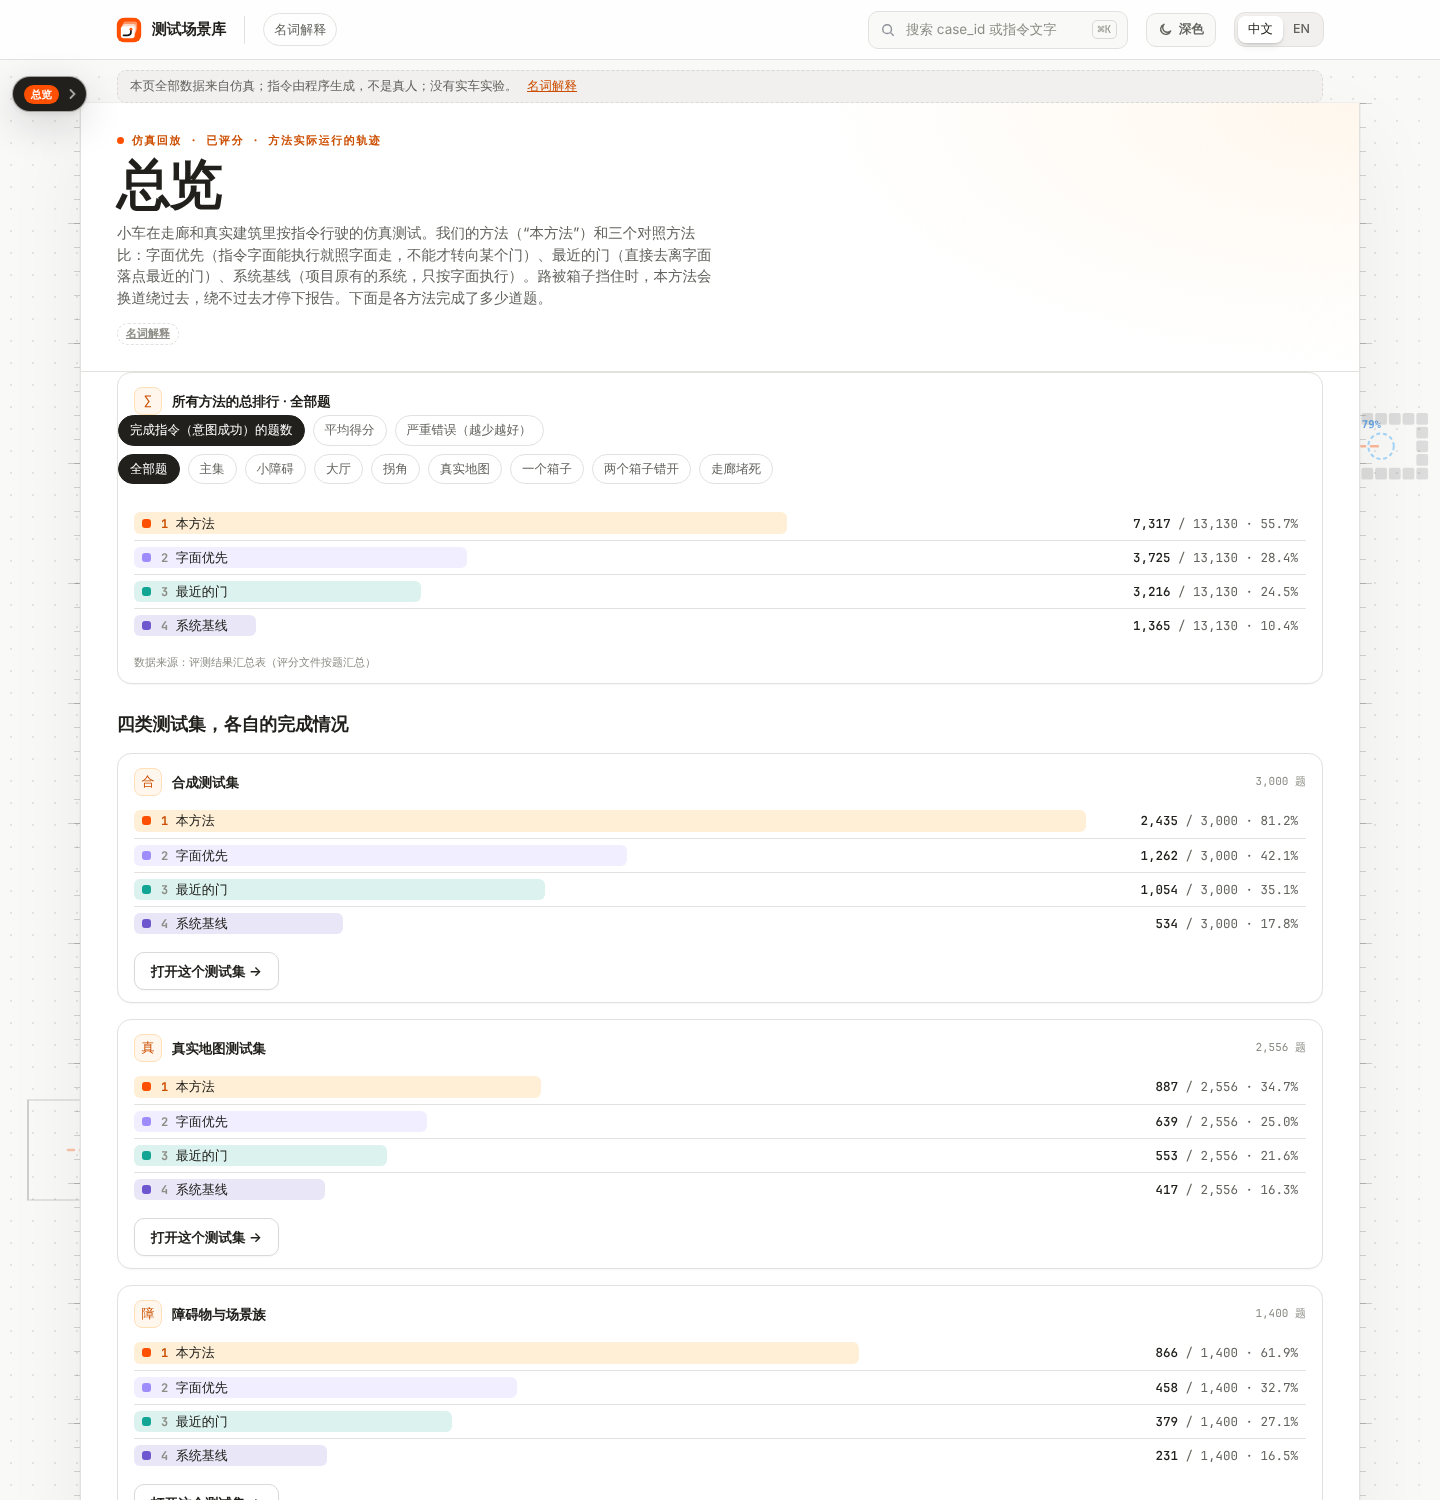
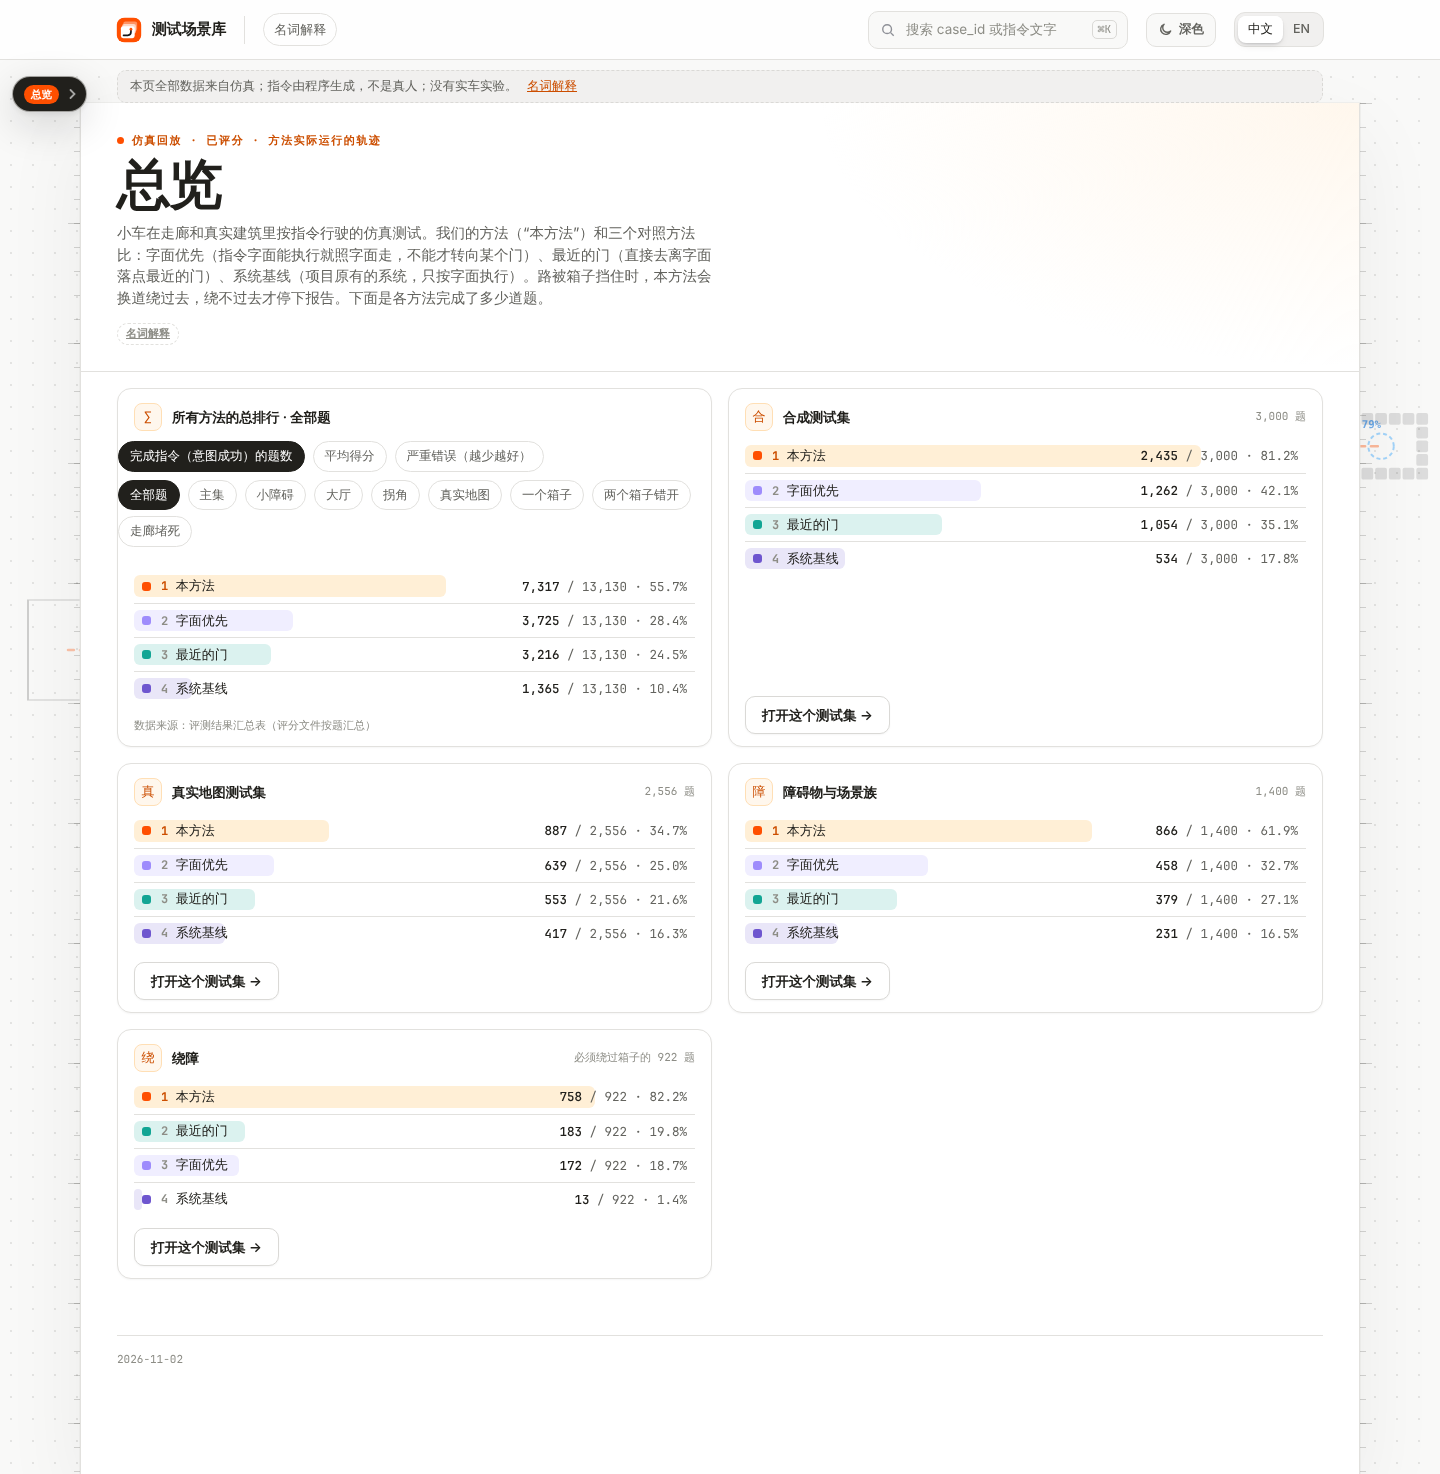
Update site: two-column layout

diff --git a/assets/app.js b/assets/app.js
@@ -312,7 +312,7 @@ function rail(route) {
   <a class="ri ${route === 'overview' ? 'on' : ''}" href="#overview"><span class="ico">◔</span>${t('overview')}</a>
   <h6>${t('sets')}</h6>
   ${sets.map(s => `<button class="ri ${route === 'list' && state.set === s.id ? 'on' : ''}" data-set="${s.id}"><span class="ico">${s.ico}</span><span>${esc(s.label)}<span class="sub">${esc(s.sub)}</span></span><span class="n">${fmt(s.n)}</span></button>`).join('')}
-  <div class="foot">${esc(META.built_utc.slice(0, 10))}</div>`;
+  <div class="foot">${esc(((window.SL_S11 || META).built_utc || '').slice(0, 10))}</div>`;
   r.querySelectorAll('[data-set]').forEach(b => b.onclick = () => { state.set = b.dataset.set; store.set('set', state.set); state.sub = 'all'; state.kind = 'all'; state.shown = 48; if (!armsOf(state.set).includes(state.arm)) state.arm = 'method'; closeNav(); if (location.hash.replace('#', '') !== 'list') location.hash = 'list'; else render(); });
   r.querySelectorAll('a').forEach(a => a.addEventListener('click', closeNav));
 }
@@ -367,7 +367,7 @@ function render() { cleanup.forEach(f => f()); cleanup = []; const r = route(); 
     d.onwheel = ev => { if (Math.abs(ev.deltaX) > Math.abs(ev.deltaY) && Math.abs(ev.deltaX) > 6) { ev.preventDefault(); const now = Date.now(); if (now - (dockState.w || 0) < 400) return; dockState.w = now; dock(ev.deltaX < 0, true); } };
     d.classList.toggle('fold', dockState.mini); }
   { let n = $('#simnote'); if (!n) { n = document.createElement('p'); n.id = 'simnote'; n.className = 'simnote'; $('#page').before(n); } n.innerHTML = `${L === 'zh' ? '本页全部数据来自仿真；指令由程序生成，不是真人；没有实车实验。' : 'All data on this page come from simulation; commands are program-generated, not spoken by people; there is no physical-robot experiment.'} <a href="#glossary">${L === 'zh' ? '名词解释' : 'Glossary'}</a>`; }
-  if (NAV !== 'rail') $('#page').insertAdjacentHTML('beforeend', `<footer class="pfoot"><span>${esc(META.built_utc.slice(0, 10))}</span></footer>`); }
+  if (NAV !== 'rail') $('#page').insertAdjacentHTML('beforeend', `<footer class="pfoot"><span>${esc(((window.SL_S11 || META).built_utc || '').slice(0, 10))}</span></footer>`); }
 window.addEventListener('hashchange', () => { render(); window.scrollTo(0, 0); });
 
 

diff --git a/assets/s11.js b/assets/s11.js
@@ -307,7 +307,7 @@ function homeHTML() {
     const n = id === 'Y4' ? 922 : rows[0].den;
     return `<article class="card metric homecat" data-set="${id}"><div class="card-h"><span class="tile">${{Y1: '合', Y2: '真', Y3: '障', Y4: '绕'}[id]}</span><h3>${esc(T(SET_TITLE[id][0], SET_TITLE[id][1]))}</h3><span class="more">${id === 'Y4' ? T('必须绕过箱子的 922 题', 'the 922 cases that require a detour') : fmt(n) + T(' 题', ' cases')}</span></div>${rowsHTML(rows, 'comp')}<div class="foot"><a class="btn" href="#list" data-open="${id}">${T('打开这个测试集', 'Open this test set')} →</a></div></article>`;
   }).join('');
-  return `<div id="homerank"></div><h3 class="s10h3">${T('四类测试集，各自的完成情况', 'The four test sets: how many cases each method completed')}</h3><div class="agrid s10grid s11grid" id="homecats">${cats}</div>`;
+  return `<div class="agrid s10grid s11grid" id="homecats"><div id="homerank"></div>${cats}</div>`;
 }
 function mountHome(root) {
   mountBars(root.querySelector('#homerank'), RK_SCOPES.map(x => [x[0], x[1], x[2]]), T('所有方法的总排行', 'Overall ranking of the methods'));

diff --git a/assets/app.css b/assets/app.css
@@ -783,3 +783,10 @@ table.rkt td.c b{display:block}
 #homecats{grid-template-columns:repeat(2,minmax(0,1fr))}
 @media (max-width:860px){#homecats{grid-template-columns:minmax(0,1fr)}}
 .rkbars .card-h{margin-bottom:10px}
+#homecats>*{min-width:0}#homecats .card{height:100%}
+.s11grid{grid-template-columns:repeat(2,minmax(0,1fr))}
+.s11grid .s10b .tbl{overflow-x:auto}
+.s11grid table.s10t{font-size:12px}.s11grid table.s10t td.nm{min-width:110px}
+@media (max-width:860px){.s11grid{grid-template-columns:minmax(0,1fr)}}
+.s11grid table.s10t th .u{display:none}.s11grid table.s10t th,.s11grid table.s10t td{padding-left:8px;padding-right:8px}
+.s11grid table.s10t th:last-child{white-space:normal;min-width:90px}
